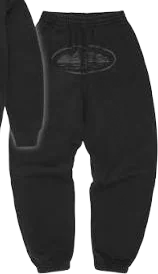
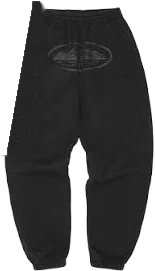
Campera Milan sin las mangas en el torso, jogging Corteiz sin la manga del buzo e ícono global de misiones
- Milan: el frente es solo el cuerpo (entre las mangas); las rayas quedan en los brazos.
- Jogging Corteiz negro: la manga del buzo que lo tapaba se borra con inpainting local
  (OpenCV) y se rellena con el negro del pantalón, en la foto del catálogo y en la textura.
- Las misiones de cualquier personaje muestran un ícono propio ("Todos") en vez de una cara.

Claude-Session: https://claude.ai/code/session_01GZCasWf5ZkpQG7m8LEjBQq

diff --git a/js/main.js b/js/main.js
@@ -595,6 +595,54 @@ async function iniciar() {
   };
   $('btn-config').addEventListener('click', abrirConfig);
   // ---------- Misiones ----------
+  // Ícono de las misiones que puede hacer cualquiera: tres muñequitos de bloques (como los
+  // personajes del juego) sobre un fondo violeta con brillo, y una estrellita dorada.
+  let icono = null;
+  const iconoBanda = () => {
+    if (icono) return icono;
+    const c = document.createElement('canvas');
+    c.width = c.height = 128;
+    const g = c.getContext('2d');
+    const f = g.createLinearGradient(0, 0, 128, 128);
+    f.addColorStop(0, '#7c3aed');
+    f.addColorStop(1, '#2563eb');
+    g.fillStyle = f;
+    g.fillRect(0, 0, 128, 128);
+    const brillo = g.createRadialGradient(64, 40, 4, 64, 40, 70);
+    brillo.addColorStop(0, 'rgba(255,255,255,0.35)');
+    brillo.addColorStop(1, 'rgba(255,255,255,0)');
+    g.fillStyle = brillo;
+    g.fillRect(0, 0, 128, 128);
+    const muneco = (x, y, e, remera) => {
+      g.fillStyle = 'rgba(0,0,0,0.25)';
+      g.fillRect(x - 15 * e + 3, y + 3, 30 * e, 62 * e);
+      g.fillStyle = '#ffd7a8';
+      g.fillRect(x - 10 * e, y, 20 * e, 20 * e); // cabeza
+      g.fillStyle = '#2b1d14';
+      g.fillRect(x - 10 * e, y, 20 * e, 6 * e); // pelo
+      g.fillStyle = '#111';
+      g.fillRect(x - 6 * e, y + 10 * e, 3 * e, 3 * e);
+      g.fillRect(x + 3 * e, y + 10 * e, 3 * e, 3 * e);
+      g.fillStyle = remera;
+      g.fillRect(x - 15 * e, y + 22 * e, 30 * e, 22 * e); // torso y brazos
+      g.fillStyle = '#1e3a8a';
+      g.fillRect(x - 10 * e, y + 44 * e, 9 * e, 18 * e);
+      g.fillRect(x + 1 * e, y + 44 * e, 9 * e, 18 * e);
+    };
+    muneco(34, 46, 0.95, '#ef4444');
+    muneco(94, 46, 0.95, '#22c55e');
+    muneco(64, 34, 1.15, '#fbbf24');
+    g.fillStyle = '#ffd23f';
+    g.beginPath();
+    for (let i = 0; i < 10; i++) {
+      const a = -Math.PI / 2 + (i * Math.PI) / 5;
+      const r = i % 2 ? 6 : 14;
+      g.lineTo(108 + Math.cos(a) * r, 20 + Math.sin(a) * r);
+    }
+    g.fill();
+    icono = c.toDataURL();
+    return icono;
+  };
   const caras = {};
   const caraDe = async (id) => {
     if (!caras[id]) caras[id] = (await cargarCabeza(PERSONAJES.find((p) => p.id === id))).frente.toDataURL();
@@ -604,11 +652,10 @@ async function iniciar() {
     if (modo !== 'juego' || !misiones.abiertas || UI.visible('misiones') || UI.visible('dialogo')) return;
     if (gym.entrenando) gym.dejar(jugador);
     controles.activo = false;
-    // Las misiones de cualquiera (personaje: null) muestran al que estás usando.
-    const lista = await Promise.all(misiones.lista(jugador).map(async (m) => {
-      const id = m.personaje || estado.personaje || PERSONAJES[0].id;
-      return { ...m, cara: await caraDe(id), nombre: PERSONAJES.find((p) => p.id === id).nombre };
-    }));
+    // Las misiones de cualquiera (personaje: null) llevan el ícono de la banda, no una cara.
+    const lista = await Promise.all(misiones.lista(jugador).map(async (m) => (m.personaje
+      ? { ...m, cara: await caraDe(m.personaje), nombre: PERSONAJES.find((p) => p.id === m.personaje).nombre }
+      : { ...m, cara: iconoBanda(), nombre: 'Todos' })));
     UI.puntoMisiones(false);
     UI.abrirMisiones(lista, () => { controles.activo = modo === 'juego'; });
   };

diff --git a/data/ropa_colores.js b/data/ropa_colores.js
@@ -54,7 +54,7 @@ export const COLORES_ROPA = {
   },
   "camperamilan": {
     "tela": "#111312",
-    "aspecto": 0.571,
+    "aspecto": 0.429,
     "manga": true
   },
   "camperapenarol": {

diff --git a/herramientas/ropa.py b/herramientas/ropa.py
@@ -46,13 +46,13 @@ PRENDAS = [
     dict(id='buzocorteiz', foto='corteiztracksuit.jpeg', slot='torso', torso=(0.2, 0.17, 0.52, 0.63), tela=(0.22, 0.45, 0.3, 0.6), recorte=(0.12, 0.05, 0.6, 0.66), manga='lisa'),
     dict(id='buzocorteizceleste', foto='corteiztracksuit2.jpeg', slot='torso', torso=(0.17, 0.24, 0.49, 0.76), tela=(0.2, 0.58, 0.28, 0.7), recorte=(0.08, 0.06, 0.53, 0.8), manga='lisa'),
     dict(id='camperacerro', foto='camperacerro.jpeg', slot='torso', torso=(0.14, 0.05, 0.86, 0.95), tela=(0.35, 0.55, 0.45, 0.7), recorte=(0.0, 0.0, 1.0, 1.0), manga=((0.37, 0.38), (0.37, 0.95), 0.1)),
-    dict(id='camperamilan', foto='camperamilan.jpeg', slot='torso', torso=(0.25, 0.18, 0.77, 0.98), tela=(0.32, 0.6, 0.45, 0.8), manga=((0.24, 0.18), (0.17, 0.93), 0.1)),
+    dict(id='camperamilan', foto='camperamilan.jpeg', slot='torso', torso=(0.31, 0.2, 0.69, 0.97), tela=(0.4, 0.6, 0.48, 0.8), manga=((0.24, 0.18), (0.17, 0.93), 0.1)),
     dict(id='camperapenarol', foto='camperapeñarol.jpeg', slot='torso', torso=(0.32, 0.13, 0.71, 0.83), tela=(0.33, 0.55, 0.45, 0.75), manga='lisa'),
     dict(id='rompevientosnacional', foto='rompevientosnacional.webp', slot='torso', torso=(0.25, 0.17, 0.76, 0.88), tela=(0.4, 0.6, 0.48, 0.8), recorte=(0.0, 0.1, 1.0, 1.0), manga=((0.105, 0.2), (0.105, 0.93), 0.07)),
     # ---- pantalones: una caja por pierna (izquierda y derecha de la foto) ----
     dict(id='jeanscammo', foto='jeanscammo.jpeg', slot='piernas', piernas=[(0.2, 0.08, 0.5, 0.97), (0.5, 0.08, 0.8, 0.97)], tela=(0.3, 0.4, 0.45, 0.7), estampado=True),
     dict(id='joggingjordan', foto='joggingjordan.webp', slot='piernas', piernas=[(0.24, 0.07, 0.5, 0.86), (0.5, 0.07, 0.78, 0.86)], tela=(0.3, 0.4, 0.42, 0.6), recorte=(0.15, 0.06, 0.85, 0.86)),
-    dict(id='pantcorteiz', foto='corteiztracksuit.jpeg', slot='piernas', piernas=[(0.54, 0.34, 0.7, 0.93), (0.7, 0.34, 0.87, 0.93)], tela=(0.58, 0.6, 0.66, 0.8), recorte=(0.52, 0.32, 0.9, 0.95)),
+    dict(id='pantcorteiz', foto='corteiztracksuit.jpeg', slot='piernas', arreglo='sacar_manga_buzo', piernas=[(0.54, 0.34, 0.7, 0.93), (0.7, 0.34, 0.87, 0.93)], tela=(0.58, 0.6, 0.66, 0.8), recorte=(0.52, 0.32, 0.9, 0.95)),
     dict(id='pantcorteizceleste', foto='corteiztracksuit2.jpeg', slot='piernas', piernas=[(0.5, 0.09, 0.67, 0.91), (0.65, 0.09, 0.82, 0.91)], tela=(0.53, 0.5, 0.6, 0.7), recorte=(0.47, 0.07, 0.86, 0.93)),
     # ---- zapatillas: solo la foto del catálogo (en el pie son modelos 3D: js/zapatillas.js) ----
     dict(id='jordan1', foto='jordan1.jpeg', slot='pies'),
@@ -71,6 +71,32 @@ def abrir(nombre):
     if max(im.size) > 1000:
         im.thumbnail((1000, 1000), Image.LANCZOS)
     return im
+
+
+def sacar_manga_buzo(im):
+    """En la foto del conjunto Corteiz negro, la manga del buzo tapa el costado izquierdo del
+    jogging. Se borra: primero se rellena toda la manga (lo que cae adentro del pantalón) con
+    el negro de alrededor (inpainting de OpenCV, acá en la compu) y después lo que queda afuera
+    del borde del pantalón pasa a ser fondo."""
+    import cv2
+    a = np.asarray(im).copy()
+    h, w = a.shape[:2]
+    borde = lambda y: 0.60 + (0.545 - 0.60) * (min(max(y, 0.345), 0.66) - 0.345) / (0.66 - 0.345)
+    # Color del jogging (un pedazo limpio de la pierna derecha) con un poco de grano.
+    tela = np.median(a[int(0.45 * h):int(0.6 * h), int(0.72 * w):int(0.8 * w)].reshape(-1, 3), axis=0)
+    rng2 = np.random.default_rng(3)
+    junta = np.zeros((h, w), np.uint8)
+    for fila in range(int(0.33 * h), int(0.672 * h) + 1):
+        y = fila / h
+        # La manga llega hasta x = 0.62 y el puño baja hasta y = 0.665.
+        x1 = int(0.625 * w)
+        a[fila, int(0.5 * w):x1] = np.clip(tela + rng2.normal(0, 2.5, (x1 - int(0.5 * w), 1)), 0, 255)
+        junta[fila, x1 - 3:x1 + 3] = 255
+    junta[int(0.665 * h):int(0.68 * h), int(0.53 * w):int(0.63 * w)] = 255
+    a = cv2.inpaint(a, junta, 4, cv2.INPAINT_TELEA)
+    for fila in range(int(0.29 * h), int(0.672 * h) + 1):
+        a[fila, int(0.5 * w):int(borde(fila / h) * w)] = 255
+    return Image.fromarray(a)
 
 
 def px(im, caja):
@@ -129,6 +155,8 @@ def achicar(im, lado):
 colores = {}
 for p in PRENDAS:
     im = abrir(p['foto'])
+    if p.get('arreglo'):
+        im = globals()[p['arreglo']](im)
     mask = mascara_fondo(im)
     info = {}
     # Foto del catálogo: recortada al contenido, fondo transparente.

diff --git a/README.md b/README.md
@@ -139,9 +139,9 @@ Sobre la avenida, enfrente de la plaza, hay tres tiendas: **KICKS** (zapatillas,
 
 - **Bauti** no consigue nada de su talle mientras está gordo ("Disculpá bro, no nos queda talle XXXXL") y el ropero tampoco le sirve. Cuando adelgaza en el Power Camp, ya puede.
 - **Ropero:** en cualquier ropero comprado de la mansión aparece "Abrir ropero (E)". A la izquierda está tu personaje en 3D girando (se puede girar arrastrando) y a la derecha tus prendas por tipo. Tocás una y te la probás; "Ponérmelo" la deja puesta. Cada personaje tiene su propia ropa puesta (`estado.vestuario`); lo comprado está en `estado.ropa`.
-- **Misión Empilchado** (de cualquier personaje): "Comprate 5 pilchas ricas".
+- **Misión Empilchado** (de cualquier personaje): "Comprate 5 pilchas ricas". Las misiones de cualquiera llevan en el panel un ícono propio (tres muñequitos de bloques, "Todos") en vez de la cara de un personaje.
 - **Cambiar de personaje** solo se puede adentro de la mansión.
 
-Cómo se arma la ropa: `herramientas/ropa.py` recorta las fotos de `assets/ropa/` acá en la compu (rembg local) y deja en `assets/ropa/prendas/` el frente de cada remera/buzo/campera (solo el cuerpo, entre los brazos), la manga (enderezada de la foto, del hombro al puño, o tela lisa con puño para los buzos), la tela, las dos piernas de cada pantalón y el frente de la gorra; y en `assets/ropa/tienda/` la foto recortada del catálogo. `js/vestir.js` las carga y `js/personaje.js` las pone en el muñeco: el frente a la medida del torso, las mangas largas siguiendo el brazo con la mano asomando, cada pierna con su mitad del pantalón. Las zapatillas no son fotos: son modelos 3D (`js/zapatillas.js`) con suela, capellada, puntera, cordones y los detalles de cada una (la pipa de Nike calcada del logo, las columnas de las Shox, las burbujas y ondas de las TN, el estampado elefante y el atardecer de las J Balvin, los tapones de los F50). Precios y tiendas en `data/ropa.js`.
+Cómo se arma la ropa: `herramientas/ropa.py` recorta las fotos de `assets/ropa/` acá en la compu (rembg local) y deja en `assets/ropa/prendas/` el frente de cada remera/buzo/campera (solo el cuerpo, entre los brazos), la manga (enderezada de la foto, del hombro al puño, o tela lisa con puño para los buzos), la tela, las dos piernas de cada pantalón y el frente de la gorra; y en `assets/ropa/tienda/` la foto recortada del catálogo. En la foto del conjunto Corteiz negro la manga del buzo tapaba el jogging: se borra con inpainting de OpenCV (también local) y se rellena con el negro del pantalón, en el catálogo y en la prenda puesta. `js/vestir.js` las carga y `js/personaje.js` las pone en el muñeco: el frente a la medida del torso, las mangas largas siguiendo el brazo con la mano asomando, cada pierna con su mitad del pantalón. Las zapatillas no son fotos: son modelos 3D (`js/zapatillas.js`) con suela, capellada, puntera, cordones y los detalles de cada una (la pipa de Nike calcada del logo, las columnas de las Shox, las burbujas y ondas de las TN, el estampado elefante y el atardecer de las J Balvin, los tapones de los F50). Precios y tiendas en `data/ropa.js`.
 
 Para la Chromebook: cada manzana es una sola malla por material (lo que no se ve no se dibuja), los choques de la ciudad están en una grilla (solo se miran los de alrededor) y la ciudad se arma recién cuando vas para ese lado, de a una manzana por cuadro, así no se traba.
